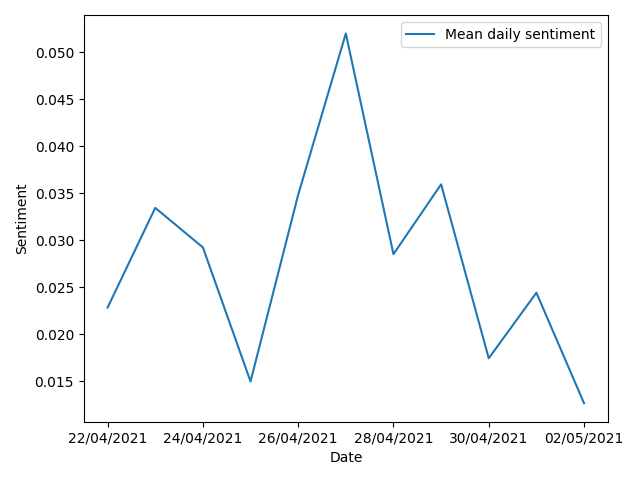
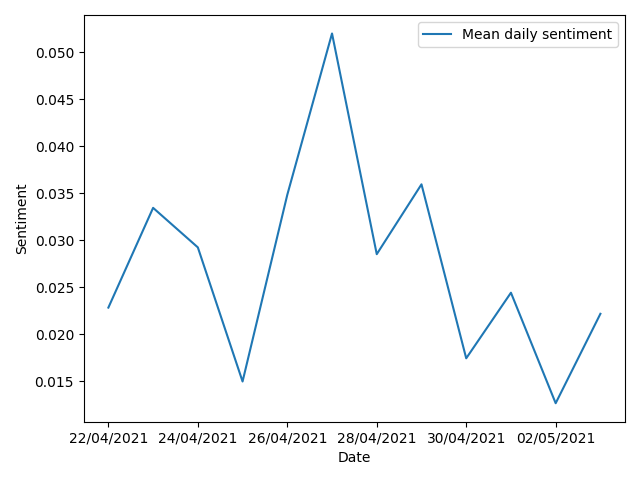
Automatic update (gitControl.py)

diff --git a/README.md b/README.md
@@ -3,7 +3,7 @@
 World news sentiment data, updated at 07:00 daily.
 
 **Started:** `22/04/2021`<br>
-**Updated:** `02/05/2021, 07:00:39`<br>
+**Updated:** `03/05/2021, 07:00:38`<br>
 **Sources:** `BBC News, Sky, Reuters, r/worldnews, r/news`
 
 <img src="https://user-images.githubusercontent.com/25552804/115932698-55adef00-a485-11eb-82bb-2265c0821ca0.png" width="20%" height="20%">

diff --git a/docs/index.md b/docs/index.md
@@ -3,7 +3,7 @@
 World news sentiment data, updated at 07:00 daily.
 
 **Started:** `22/04/2021`<br>
-**Updated:** `02/05/2021, 07:00:39`<br>
+**Updated:** `03/05/2021, 07:00:38`<br>
 **Sources:** `BBC News, Sky, Reuters, r/worldnews, r/news`
 
 <img src="https://user-images.githubusercontent.com/25552804/115932698-55adef00-a485-11eb-82bb-2265c0821ca0.png" width="20%" height="20%">
